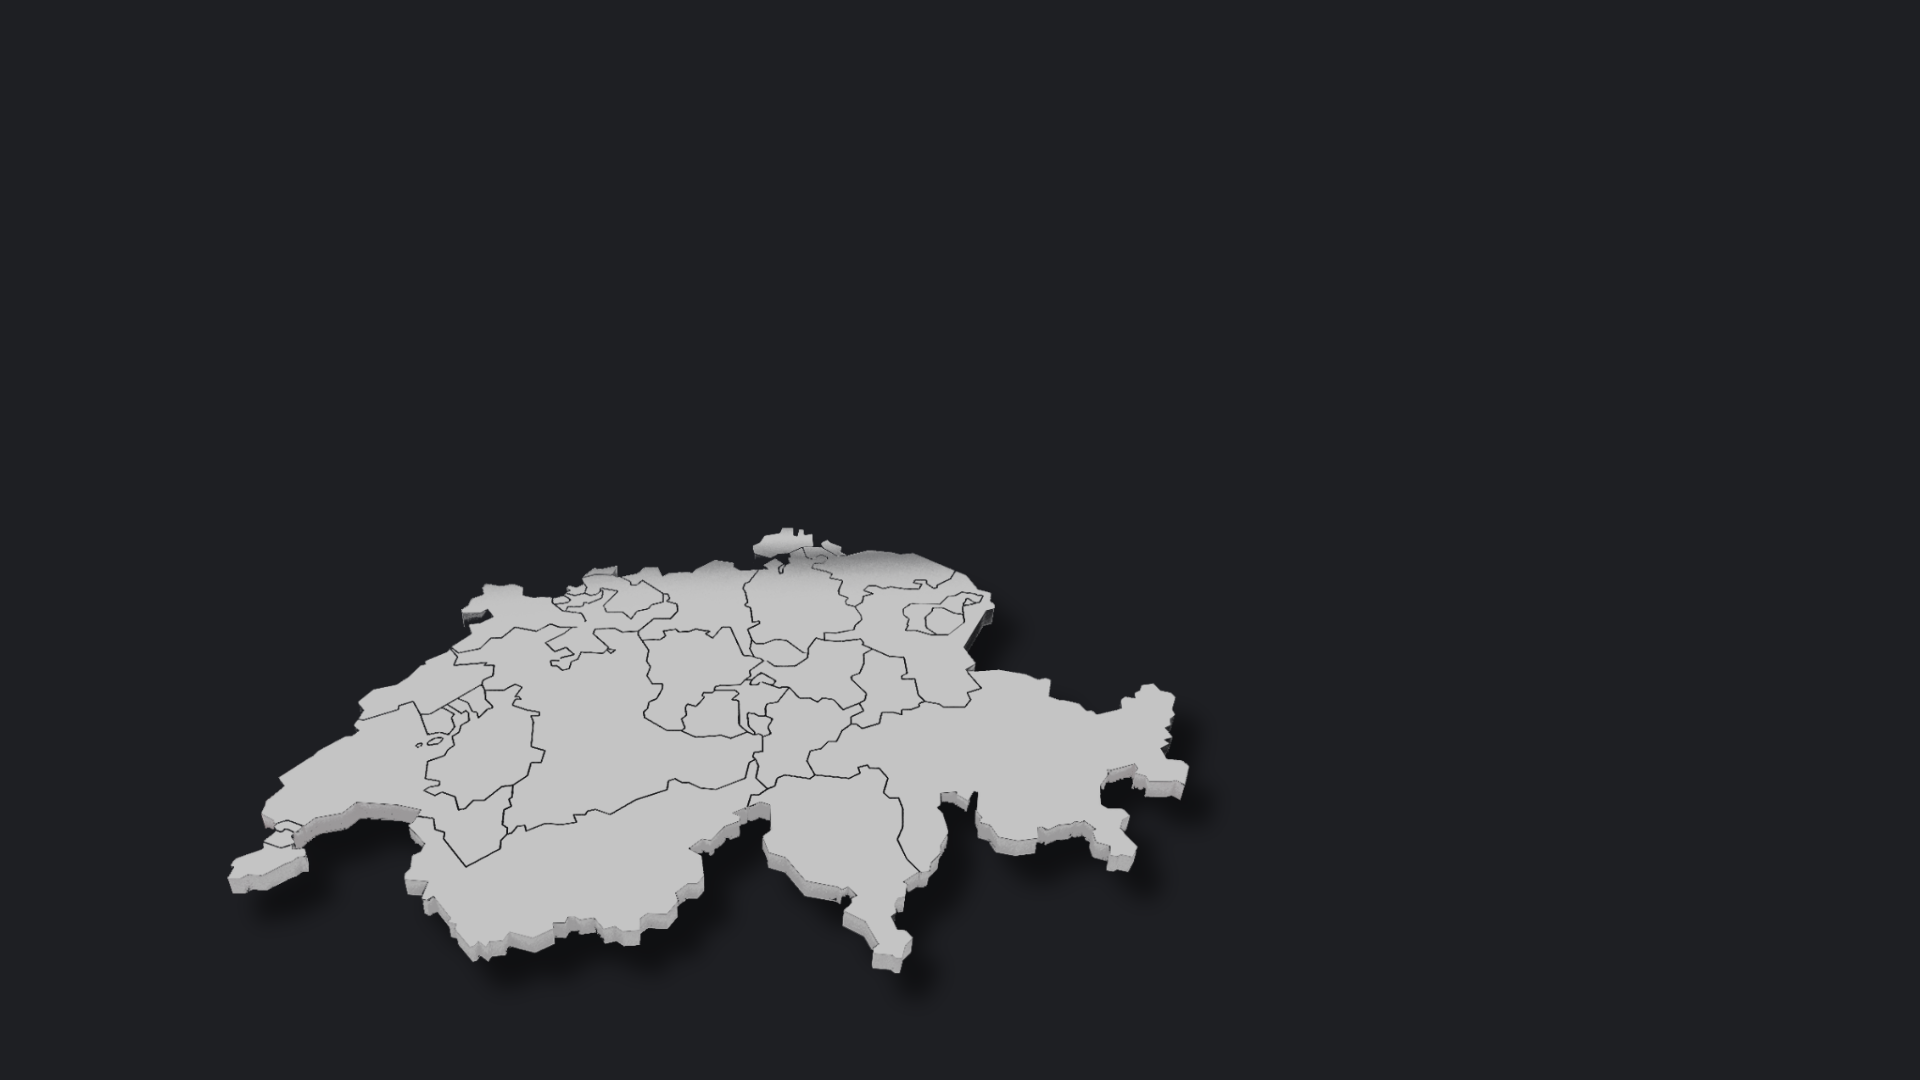
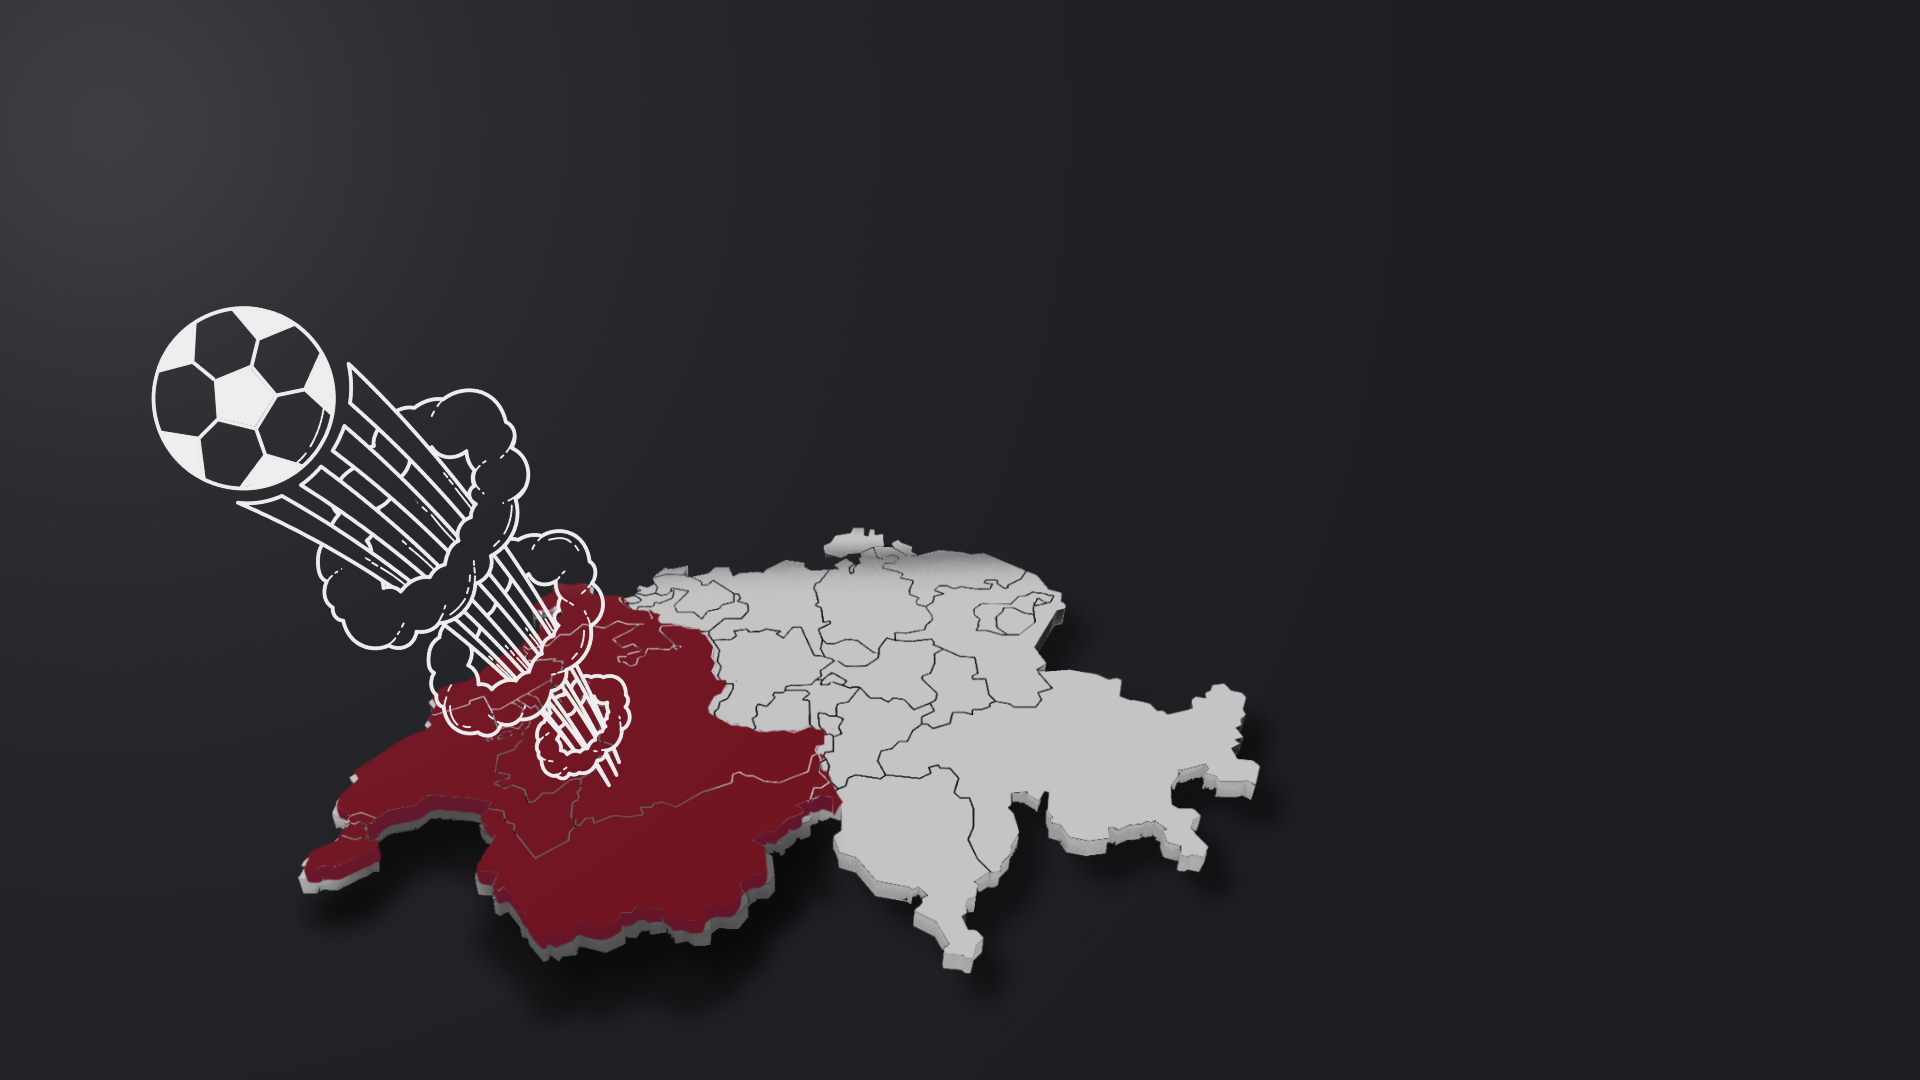
changement ilmage et titre sur hero

Changed region(s): [[0.0625, 0.275, 0.6562, 0.9167], [0.0, 0.0, 0.1562, 0.275]]

diff --git a/css/hero.css b/css/hero.css
@@ -2,15 +2,14 @@
     position: relative;
     width: 100%;
     height: 100vh;
-    /* Prend toute la hauteur de la fenêtre */
     background-image: url("../Images/hero.webp");
     background-size: cover;
     background-position: center;
     display: flex;
-    justify-content: center;
+    justify-content: flex-end;
     align-items: center;
     color: white;
-    text-align: center;
+    text-align: right;
 }
 
 .hero-content {

diff --git a/css/layout.css b/css/layout.css
@@ -1,5 +1,5 @@
 section#chiffres {
-    background-image: url("../Images/SecondImage.webp");
+    background-image: url("../Images/Main.webp");
     background-size: cover;
     background-position: center;
     background-repeat: no-repeat;
